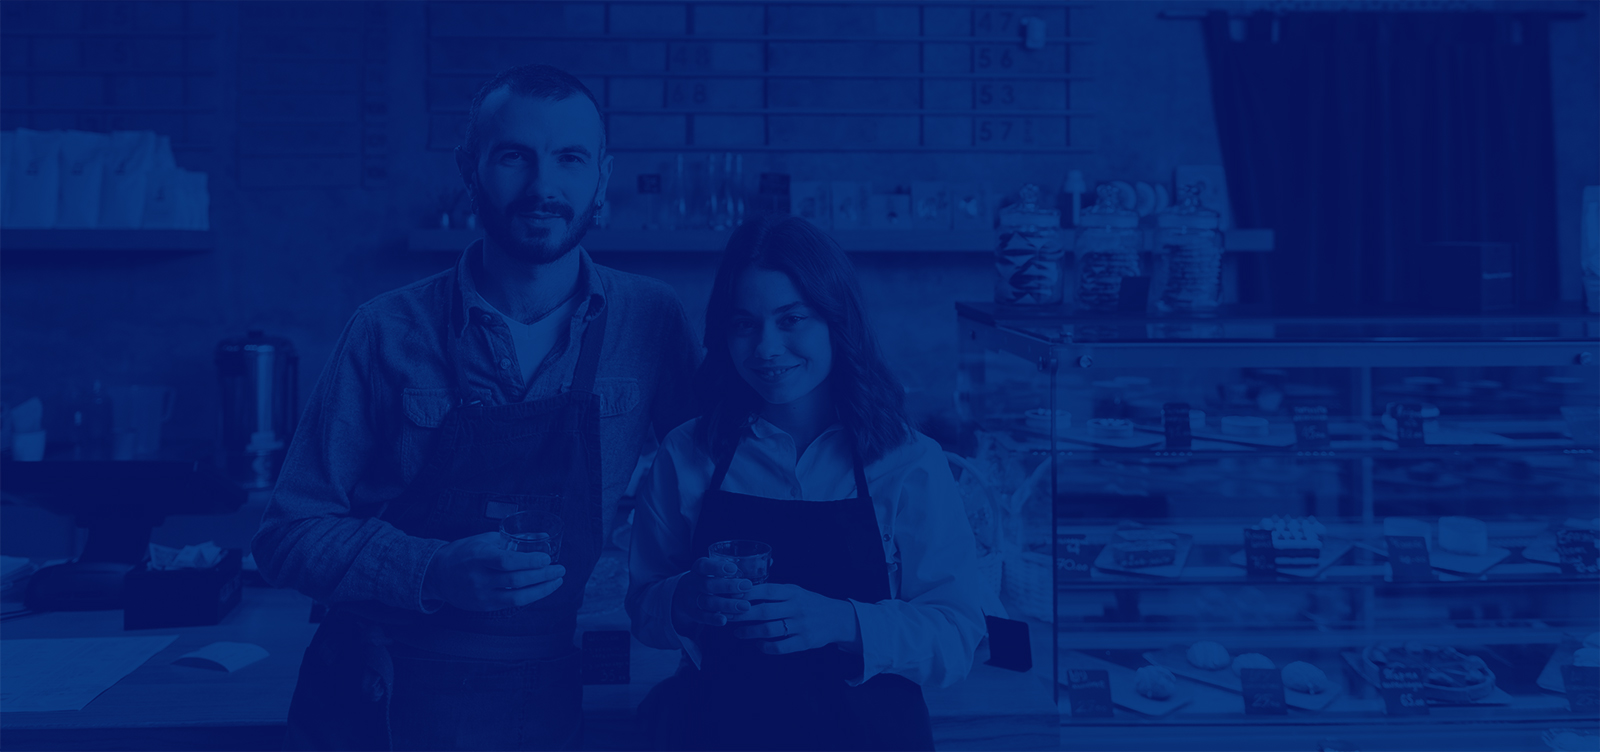
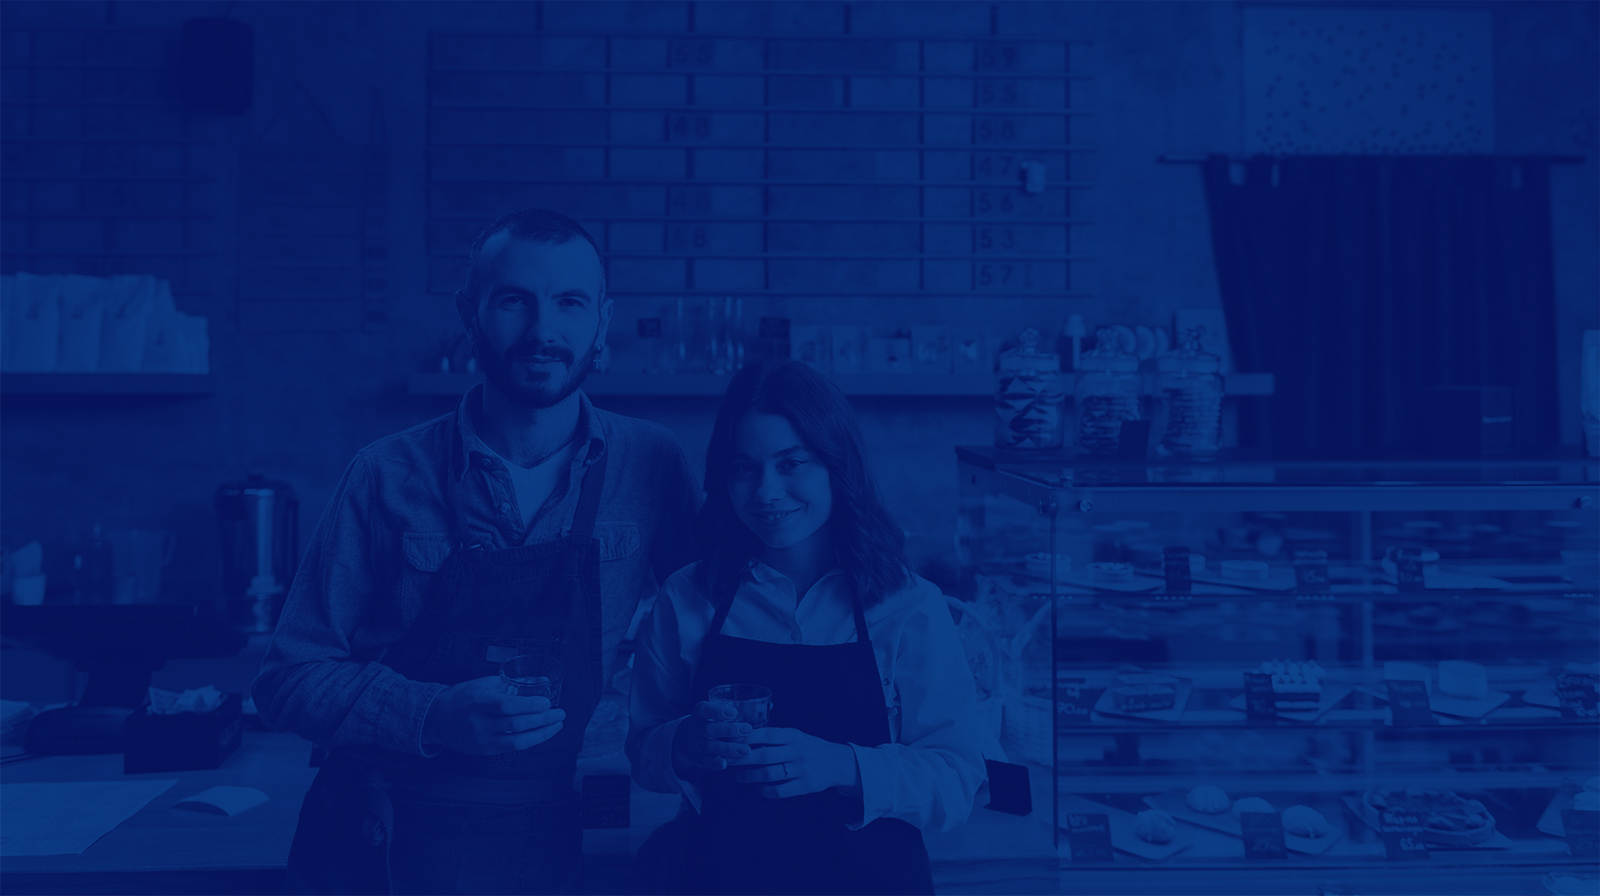
header e navbar

diff --git a/components/main/HeaderSlide.vue b/components/main/HeaderSlide.vue
@@ -41,7 +41,7 @@
       <b-row>
         <b-col>
           <template>
-            <div class="d-lg-block d-sm-none d-none navbg pt-2">
+            <div class="d-lg-block d-sm-none d-none navbg pt-2 pb-2">
               <ul>
                 <router-link
                   to="/"
@@ -77,12 +77,18 @@
                   >Cobranças</router-link
                 >
                 <hr class="linestyle-sidebar mt-1 mb-1" />
-                <a
-                  href="https://blog.imobanco.com.br/"
+                <router-link
+                  to="#"
                   class="text-white text-content p-3 text-decoration-none effect"
-                  target="_blank"
-                  >Blog</a
+                  >Planos</router-link
                 >
+                <hr class="linestyle-sidebar mt-1 mb-1" />
+                <router-link
+                  to="#"
+                  class="text-white text-content p-3 text-decoration-none effect"
+                  >Imprensa</router-link
+                >
+
                 <hr class="linestyle-sidebar mt-1 mb-1" />
                 <router-link
                   to="/contact"
@@ -90,15 +96,6 @@
                   >Contato</router-link
                 >
               </ul>
-              <div class="bg-medium pt-2 pb-2 text-center">
-                <a
-                  href="https://blog.imobanco.com.br/"
-                  class="text-white pl-2 text-titulo-sidebar text-white text-decoration-none effect"
-                  target="_blank"
-                >
-                  <i class="far fa-arrow-alt-circle-right"></i> Seja Cliente
-                </a>
-              </div>
             </div>
           </template>
         </b-col>

diff --git a/components/boletos/HeaderBoleto.vue b/components/boletos/HeaderBoleto.vue
@@ -4,25 +4,25 @@
       <b-row>
         <b-col cols="12" md="12" lg="12" class="text-center mt-lg-5 mt-md-3">
           <h1 class="text-title text-white">Boletos</h1>
-          <p
-            class="text-white text-content"
-          >A melhor solução do mercado brasileiro. Somos o seu novo MODAL FINANCEIRO.</p>
-          <a href="#" target="_black" class="btn bg-white form-radius-total">Cadastre-se</a>
+          <p class="text-white text-content">
+            A melhor solução do mercado brasileiro. Somos o seu novo MODAL
+            FINANCEIRO.
+          </p>
+          <a href="#" target="_black" class="btn bg-white form-radius-total"
+            >Cadastre-se</a
+          >
         </b-col>
       </b-row>
     </b-container>
   </section>
 </template>
 
-
-<script>
-</script>
-
+<script></script>
 
 <style>
 .slidemobileslip {
   height: 400px;
-  background-image: url("~assets/image/banner-boleto.jpg") !important;
+  background-image: url("~static/image/novo-boleto.jpg") !important;
   background-color: #9c9c9c;
   background-size: 100% auto cover;
   background-position: center;

diff --git a/components/main/NavbarSecondary.vue b/components/main/NavbarSecondary.vue
@@ -35,6 +35,11 @@
             class="text-titulo-sidebar text-decoration-none text-white navbarbox"
             >Ecommerce</router-link
           >
+          <router-link
+            to="/cobrancas"
+            class="text-titulo-sidebar text-decoration-none text-white navbarbox"
+            >Cobranças</router-link
+          >
         </b-navbar-nav>
       </b-collapse>
     </div>
